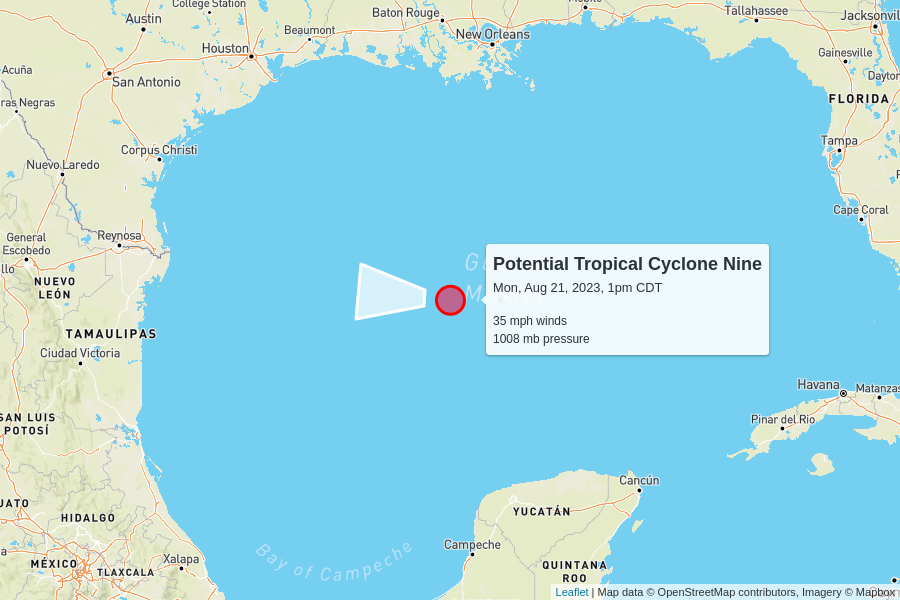
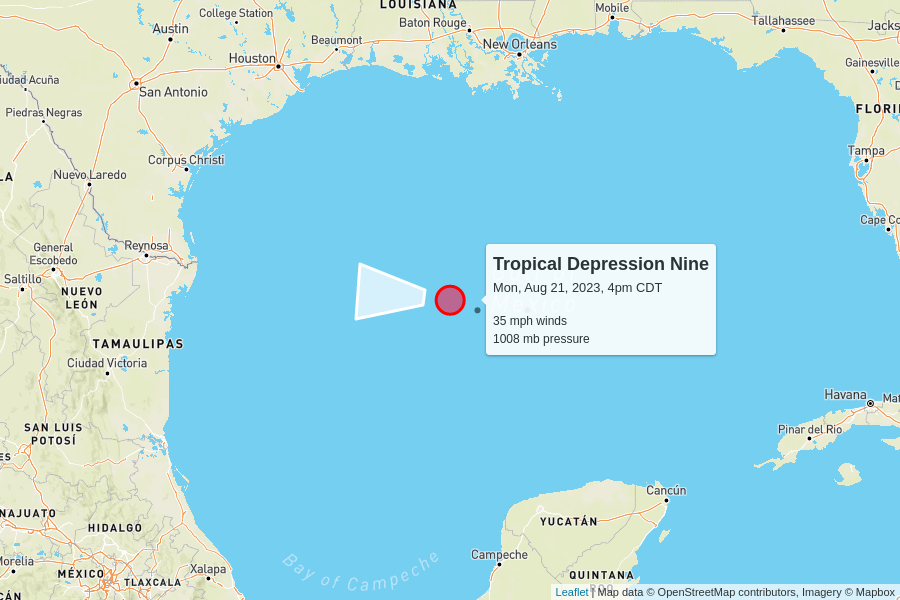
automatic update

diff --git a/docs/index.html b/docs/index.html
@@ -99,8 +99,52 @@
       <tr>
         <td colspan="6" class="storm category-0" >
           <h2>
+            Tropical Depression Gert
+            <p class="updated">last updated <span data-time>2023-08-21T21:00:00.000Z</span></p>
+          </h2>
+        </td>
+      </tr>
+      
+      <tr>
+        <th class="spacer"></th>
+        <th>wind speed</th>
+        <th>central pressure</th>
+        <th>movement</th>
+        <th>data (CSV)</th>
+        <th>National Hurricane Center</th>
+      </tr>
+      <tr>
+        <td class="spacer"></td>
+        <td>30 mph</td>
+        <td>1008 mb</td>
+        <td>
+          7 mph to the west-northwest
+          <br/>
+          <span style="display: inline-block; font-size: 1.5em; transform: rotate(290deg);">↑</span>
+        </td>
+        <td><a href="https://raw.githubusercontent.com/mgwalker/atlantic-hurricanes/main/data/csv/AL062023.csv">AL062023.csv</a></td>
+        <td><a href="https://www.nhc.noaa.gov/archive/2023/GERT.shtml?">NHC advisories</a></td>
+      </tr>
+      <tr id="storm_AL062023" >
+        <td class="spacer">
+        <td colspan="5">
+          <figure>
+            <img src="AL062023.png">
+            <figcaption>
+              Map data &copy; <a href="https://www.openstreetmap.org/copyright">OpenStreetMap</a> contributors,
+              Imagery &copy; <a href="https://www.mapbox.com/">Mapbox</a> |
+              <a href="https://www.mapbox.com/map-feedback/" target="_blank">Improve this map</a>
+            </figcaption>
+          </figure>
+        </td>
+      </tr>
+      
+
+      <tr>
+        <td colspan="6" class="storm category-0" >
+          <h2>
             Tropical Storm Franklin
-            <p class="updated">last updated <span data-time>2023-08-21T18:00:00.000Z</span></p>
+            <p class="updated">last updated <span data-time>2023-08-21T21:00:00.000Z</span></p>
           </h2>
         </td>
       </tr>
@@ -116,9 +160,9 @@
       <tr>
         <td class="spacer"></td>
         <td>50 mph</td>
-        <td>999 mb</td>
+        <td>1002 mb</td>
         <td>
-          4 mph to the west
+          5 mph to the west
           <br/>
           <span style="display: inline-block; font-size: 1.5em; transform: rotate(265deg);">↑</span>
         </td>
@@ -143,8 +187,8 @@
       <tr>
         <td colspan="6" class="storm category-0" >
           <h2>
-            Potential Tropical Cyclone Nine
-            <p class="updated">last updated <span data-time>2023-08-21T18:00:00.000Z</span></p>
+            Tropical Depression Nine
+            <p class="updated">last updated <span data-time>2023-08-21T21:00:00.000Z</span></p>
           </h2>
         </td>
       </tr>
@@ -162,7 +206,7 @@
         <td>35 mph</td>
         <td>1008 mb</td>
         <td>
-          16 mph to the west
+          18 mph to the west
           <br/>
           <span style="display: inline-block; font-size: 1.5em; transform: rotate(275deg);">↑</span>
         </td>
@@ -174,50 +218,6 @@
         <td colspan="5">
           <figure>
             <img src="AL092023.png">
-            <figcaption>
-              Map data &copy; <a href="https://www.openstreetmap.org/copyright">OpenStreetMap</a> contributors,
-              Imagery &copy; <a href="https://www.mapbox.com/">Mapbox</a> |
-              <a href="https://www.mapbox.com/map-feedback/" target="_blank">Improve this map</a>
-            </figcaption>
-          </figure>
-        </td>
-      </tr>
-      
-
-      <tr>
-        <td colspan="6" class="storm category-0" >
-          <h2>
-            Tropical Storm Gert
-            <p class="updated">last updated <span data-time>2023-08-21T15:00:00.000Z</span></p>
-          </h2>
-        </td>
-      </tr>
-      
-      <tr>
-        <th class="spacer"></th>
-        <th>wind speed</th>
-        <th>central pressure</th>
-        <th>movement</th>
-        <th>data (CSV)</th>
-        <th>National Hurricane Center</th>
-      </tr>
-      <tr>
-        <td class="spacer"></td>
-        <td>40 mph</td>
-        <td>1006 mb</td>
-        <td>
-          8 mph to the west
-          <br/>
-          <span style="display: inline-block; font-size: 1.5em; transform: rotate(280deg);">↑</span>
-        </td>
-        <td><a href="https://raw.githubusercontent.com/mgwalker/atlantic-hurricanes/main/data/csv/AL062023.csv">AL062023.csv</a></td>
-        <td><a href="https://www.nhc.noaa.gov/archive/2023/GERT.shtml?">NHC advisories</a></td>
-      </tr>
-      <tr id="storm_AL062023" >
-        <td class="spacer">
-        <td colspan="5">
-          <figure>
-            <img src="AL062023.png">
             <figcaption>
               Map data &copy; <a href="https://www.openstreetmap.org/copyright">OpenStreetMap</a> contributors,
               Imagery &copy; <a href="https://www.mapbox.com/">Mapbox</a> |
